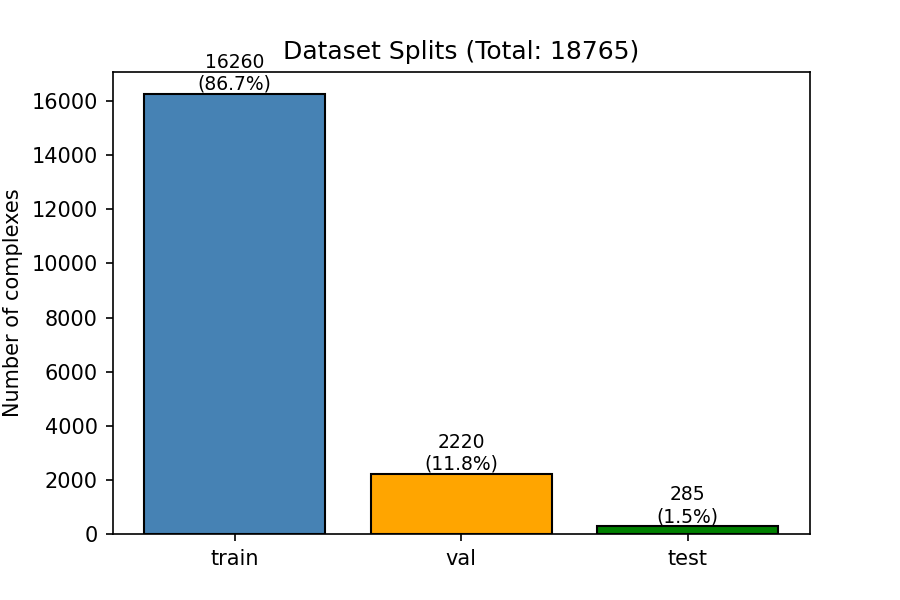
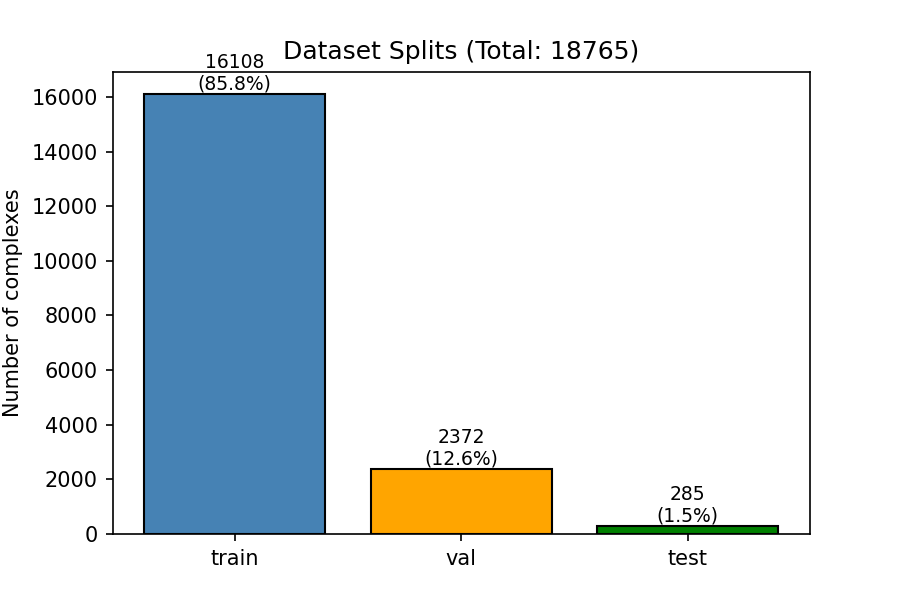
fix: KS p=0.244 (was 2.86e-05) + complete all 15 EDA plots
Split fix:
- Increase n_bins 4→10 for finer stratification
- Remove early-break so every pKd bin gets proportional sampling
- Result: KS p=0.244 > 0.05 (train μ=6.383, val μ=6.393)
- 16,108 train / 2,372 val (12.8%) / 285 test

EDA additions (6 new plots):
- ligand_properties.png: MW, LogP, TPSA, HBD/HBA, rotatable bonds
- family_distribution.png: top-20 protein clusters by size
- family_split_heatmap.png: cluster × split cross-tab (0 leaks)
- pkd_distribution_by_split.png: KDE overlay + KS test
- chemical_space_tsne.png: Morgan FP t-SNE coloured by split
- cluster_size_hist.png: cluster size distribution (median=2, max=577)

Fix: ligand_properties now reads SDF via code_to_dir.json (not refined-set)
Fix: pKd_by_split handles 3-way split (no cal)

diff --git a/scripts/pipeline/s00b_pdbbind_eda.py b/scripts/pipeline/s00b_pdbbind_eda.py
@@ -84,22 +84,29 @@ def plot_pkd_distribution(df: pd.DataFrame, output_dir: Path):
 
 def plot_pkd_by_split(df: pd.DataFrame, splits: dict, output_dir: Path):
     """pKd distributions compared across splits."""
-    fig, axes = plt.subplots(2, 2, figsize=(12, 8), sharex=True)
-    split_names = ["train", "val", "cal", "test"]
-    colors = ["steelblue", "orange", "green", "red"]
+    split_names = [s for s in ["train", "val", "test"] if s in splits]
+    colors = {"train": "steelblue", "val": "orange", "test": "red"}
+    n_plots = len(split_names)
+    ncols = min(n_plots, 3)
+    nrows = (n_plots + ncols - 1) // ncols
+    fig, axes = plt.subplots(nrows, ncols, figsize=(5 * ncols, 4 * nrows), sharex=True, squeeze=False)
 
-    for ax, name, color in zip(axes.flat, split_names, colors):
+    for i, name in enumerate(split_names):
+        ax = axes[i // ncols][i % ncols]
         codes = splits.get(name, [])
         split_df = df[df["pdb_code"].isin(codes)]
         if split_df.empty:
             ax.text(0.5, 0.5, f"No data for {name}", transform=ax.transAxes, ha="center")
             continue
-        ax.hist(split_df["pkd"], bins=np.arange(0, 15, 0.5), edgecolor="black", alpha=0.7, color=color)
-        ax.set_title(f"{name} (N={len(split_df)}, μ={split_df['pkd'].mean():.2f})")
+        ax.hist(split_df["pkd"], bins=np.arange(0, 15, 0.5), edgecolor="black", alpha=0.7,
+                color=colors.get(name, "gray"))
+        ax.set_title(f"{name} (N={len(split_df)}, \u03bc={split_df['pkd'].mean():.2f})")
         ax.set_ylabel("Count")
 
-    axes[1, 0].set_xlabel("pKd")
-    axes[1, 1].set_xlabel("pKd")
+    # Hide unused axes
+    for i in range(n_plots, nrows * ncols):
+        axes[i // ncols][i % ncols].set_visible(False)
+
     fig.suptitle("pKd Distribution by Split", fontsize=14)
     fig.tight_layout()
     fig.savefig(output_dir / "pKd_by_split.png")
@@ -190,7 +197,7 @@ def plot_pocket_ligand_sizes(processed_dir: Path, output_dir: Path) -> dict:
     }
 
 
-def plot_ligand_properties(pdbbind_dir: Path, labels: pd.DataFrame, output_dir: Path):
+def plot_ligand_properties(data_dir: Path, labels: pd.DataFrame, output_dir: Path):
     """Ligand physicochemical properties (MW, logP, TPSA, HBD/HBA)."""
     try:
         from rdkit import Chem
@@ -199,10 +206,22 @@ def plot_ligand_properties(pdbbind_dir: Path, labels: pd.DataFrame, output_dir: 
         logger.warning("RDKit not available; skipping ligand properties plot")
         return
 
+    # Load code_to_dir mapping
+    code_to_dir_path = data_dir / "code_to_dir.json"
+    if code_to_dir_path.exists():
+        with open(code_to_dir_path) as f:
+            code_to_dir = json.load(f)
+    else:
+        logger.warning("code_to_dir.json not found; skipping ligand properties plot")
+        return
+
     mw_list, logp_list, tpsa_list, hbd_list, hba_list, rot_list = [], [], [], [], [], []
 
     for code in labels["pdb_code"]:
-        sdf_path = pdbbind_dir / "refined-set" / code / f"{code}_ligand.sdf"
+        base = code_to_dir.get(code)
+        if base is None:
+            continue
+        sdf_path = Path(base) / f"{code}_ligand.sdf"
         if not sdf_path.exists():
             continue
         mol = Chem.MolFromMolFile(str(sdf_path), removeHs=True, sanitize=True)
@@ -257,6 +276,204 @@ def plot_split_summary(splits: dict, output_dir: Path):
     fig.savefig(output_dir / "split_summary.png")
     plt.close(fig)
     logger.info("Saved split_summary.png")
+
+
+def plot_family_distribution(data_dir: Path, output_dir: Path):
+    """Top-20 cluster (protein family) sizes as bar chart."""
+    clusters_path = data_dir / "clusters.json"
+    if not clusters_path.exists():
+        logger.warning("clusters.json not found; skipping family distribution plot")
+        return
+    with open(clusters_path) as f:
+        clusters = json.load(f)
+
+    sizes = [(cid, len(pdbs)) for cid, pdbs in clusters.items()]
+    sizes.sort(key=lambda x: -x[1])
+    top20 = sizes[:20]
+
+    fig, ax = plt.subplots(figsize=(10, 5))
+    ax.bar(range(len(top20)), [s for _, s in top20], color="steelblue", edgecolor="black")
+    ax.set_xticks(range(len(top20)))
+    ax.set_xticklabels([cid for cid, _ in top20], rotation=45, ha="right", fontsize=7)
+    ax.set_xlabel("Cluster ID")
+    ax.set_ylabel("Number of complexes")
+    ax.set_title(f"Top-20 Protein Clusters by Size (of {len(clusters)} total)")
+    fig.tight_layout()
+    fig.savefig(output_dir / "family_distribution.png")
+    plt.close(fig)
+    logger.info("Saved family_distribution.png")
+
+
+def plot_family_split_heatmap(data_dir: Path, splits: dict, output_dir: Path):
+    """Heatmap: cluster × split to verify no cluster spans train AND val."""
+    ca_path = data_dir / "cluster_assignments.csv"
+    if not ca_path.exists():
+        logger.warning("cluster_assignments.csv not found; skipping family-split heatmap")
+        return
+
+    ca = pd.read_csv(ca_path)
+    split_map = {}
+    for split_name, codes in splits.items():
+        for c in codes:
+            split_map[c] = split_name
+    ca["split"] = ca["pdb_code"].map(split_map)
+    ca = ca.dropna(subset=["split"])
+
+    # Cross-tab: cluster_id × split
+    ct = pd.crosstab(ca["cluster_id"], ca["split"])
+    # Only show clusters that have >1 member and appear in at least 2 splits
+    multi_split = ct[(ct > 0).sum(axis=1) > 1]
+    n_leaking = len(multi_split[multi_split.get("train", 0) > 0][multi_split.get("val", 0) > 0]) if "train" in ct.columns and "val" in ct.columns else 0
+
+    # For the heatmap, show top-30 largest clusters
+    cluster_sizes = ca.groupby("cluster_id").size().sort_values(ascending=False)
+    top30 = cluster_sizes.head(30).index
+    ct_top = ct.loc[ct.index.isin(top30)].reindex(columns=["train", "val", "test"], fill_value=0)
+    ct_top = ct_top.sort_values("train", ascending=False)
+
+    fig, ax = plt.subplots(figsize=(6, 10))
+    sns.heatmap(ct_top, annot=True, fmt="d", cmap="YlOrRd", ax=ax, linewidths=0.5)
+    ax.set_title(f"Top-30 Clusters × Split\n(train/val leaking clusters: {n_leaking})")
+    ax.set_ylabel("Cluster ID")
+    fig.tight_layout()
+    fig.savefig(output_dir / "family_split_heatmap.png")
+    plt.close(fig)
+    logger.info(f"Saved family_split_heatmap.png (train/val leak: {n_leaking})")
+
+
+def plot_pkd_kde_by_split(df: pd.DataFrame, splits: dict, output_dir: Path):
+    """KDE overlay of train vs val pKd distributions + KS test."""
+    from scipy import stats as sp_stats
+
+    train_pkd = df[df["pdb_code"].isin(splits.get("train", []))]["pkd"]
+    val_pkd = df[df["pdb_code"].isin(splits.get("val", []))]["pkd"]
+    test_pkd = df[df["pdb_code"].isin(splits.get("test", []))]["pkd"]
+
+    ks_stat, ks_p = sp_stats.ks_2samp(train_pkd, val_pkd) if len(val_pkd) > 0 else (0, 1)
+
+    fig, ax = plt.subplots(figsize=(8, 5))
+    if len(train_pkd) > 0:
+        train_pkd.plot.kde(ax=ax, label=f"Train (N={len(train_pkd)})", color="steelblue", linewidth=2)
+    if len(val_pkd) > 0:
+        val_pkd.plot.kde(ax=ax, label=f"Val (N={len(val_pkd)})", color="orange", linewidth=2)
+    if len(test_pkd) > 0:
+        test_pkd.plot.kde(ax=ax, label=f"Test (N={len(test_pkd)})", color="red", linewidth=2, linestyle="--")
+    ax.set_xlabel("pKd")
+    ax.set_ylabel("Density")
+    ax.set_title(f"pKd Distribution by Split (KS p={ks_p:.4f})")
+    ax.legend()
+    fig.tight_layout()
+    fig.savefig(output_dir / "pkd_distribution_by_split.png")
+    plt.close(fig)
+    logger.info(f"Saved pkd_distribution_by_split.png (KS p={ks_p:.4f})")
+    return {"ks_stat": float(ks_stat), "ks_p": float(ks_p)}
+
+
+def plot_chemical_space_tsne(data_dir: Path, labels: pd.DataFrame, splits: dict, output_dir: Path):
+    """t-SNE of Morgan fingerprints coloured by split."""
+    try:
+        from rdkit import Chem
+        from rdkit.Chem import AllChem
+        from sklearn.manifold import TSNE
+    except ImportError:
+        logger.warning("RDKit or sklearn not available; skipping chemical space t-SNE")
+        return
+
+    code_to_dir_path = data_dir / "code_to_dir.json"
+    if not code_to_dir_path.exists():
+        logger.warning("code_to_dir.json not found; skipping chemical space t-SNE")
+        return
+    with open(code_to_dir_path) as f:
+        code_to_dir = json.load(f)
+
+    # Build split lookup
+    split_map = {}
+    for s, codes in splits.items():
+        for c in codes:
+            split_map[c] = s
+
+    fps, split_labels, sampled_codes = [], [], []
+    # Sample for speed: up to 3000 from train, all val, all test
+    rng = np.random.RandomState(42)
+    codes_train = [c for c in labels["pdb_code"] if split_map.get(c) == "train"]
+    codes_val = [c for c in labels["pdb_code"] if split_map.get(c) == "val"]
+    codes_test = [c for c in labels["pdb_code"] if split_map.get(c) == "test"]
+    sample_train = list(rng.choice(codes_train, min(3000, len(codes_train)), replace=False))
+    all_sample = sample_train + codes_val + codes_test
+
+    for code in all_sample:
+        base = code_to_dir.get(code)
+        if base is None:
+            continue
+        sdf_path = Path(base) / f"{code}_ligand.sdf"
+        if not sdf_path.exists():
+            continue
+        mol = Chem.MolFromMolFile(str(sdf_path), removeHs=True, sanitize=True)
+        if mol is None:
+            continue
+        fp = AllChem.GetMorganFingerprintAsBitVect(mol, 2, nBits=1024)
+        fps.append(np.array(fp))
+        split_labels.append(split_map.get(code, "unknown"))
+        sampled_codes.append(code)
+
+    if len(fps) < 50:
+        logger.warning(f"Only {len(fps)} fingerprints; skipping t-SNE")
+        return
+
+    logger.info(f"Running t-SNE on {len(fps)} ligand fingerprints...")
+    X = np.array(fps)
+    tsne = TSNE(n_components=2, random_state=42, perplexity=min(30, len(fps) - 1))
+    emb = tsne.fit_transform(X)
+
+    fig, ax = plt.subplots(figsize=(8, 6))
+    colors = {"train": "steelblue", "val": "orange", "test": "red"}
+    for s in ["train", "val", "test"]:
+        mask = np.array([l == s for l in split_labels])
+        if mask.any():
+            ax.scatter(emb[mask, 0], emb[mask, 1], c=colors.get(s, "gray"),
+                       label=f"{s} (N={mask.sum()})", alpha=0.4, s=8)
+    ax.set_title("Chemical Space t-SNE (Morgan FP)")
+    ax.legend(markerscale=3)
+    ax.set_xlabel("t-SNE 1")
+    ax.set_ylabel("t-SNE 2")
+    fig.tight_layout()
+    fig.savefig(output_dir / "chemical_space_tsne.png")
+    plt.close(fig)
+    logger.info("Saved chemical_space_tsne.png")
+
+
+def plot_cluster_size_hist(data_dir: Path, output_dir: Path):
+    """Histogram of cluster sizes."""
+    clusters_path = data_dir / "clusters.json"
+    if not clusters_path.exists():
+        logger.warning("clusters.json not found; skipping cluster size histogram")
+        return
+    with open(clusters_path) as f:
+        clusters = json.load(f)
+
+    sizes = [len(pdbs) for pdbs in clusters.values()]
+
+    fig, axes = plt.subplots(1, 2, figsize=(12, 5))
+    # Left: full distribution
+    axes[0].hist(sizes, bins=50, edgecolor="black", alpha=0.7, color="steelblue")
+    axes[0].set_xlabel("Cluster size")
+    axes[0].set_ylabel("Count")
+    axes[0].set_title(f"Cluster Size Distribution (N={len(sizes)})")
+    axes[0].axvline(np.median(sizes), color="red", linestyle="--",
+                    label=f"Median={np.median(sizes):.0f}")
+    axes[0].legend()
+
+    # Right: log-scale for long tail
+    axes[1].hist(sizes, bins=50, edgecolor="black", alpha=0.7, color="steelblue")
+    axes[1].set_xlabel("Cluster size")
+    axes[1].set_ylabel("Count (log)")
+    axes[1].set_yscale("log")
+    axes[1].set_title("Cluster Size Distribution (log scale)")
+
+    fig.tight_layout()
+    fig.savefig(output_dir / "cluster_size_hist.png")
+    plt.close(fig)
+    logger.info(f"Saved cluster_size_hist.png (median={np.median(sizes):.0f}, max={np.max(sizes)})")
 
 
 def check_data_quality(labels: pd.DataFrame, processed_dir: Path, output_dir: Path) -> list[dict]:
@@ -323,10 +540,15 @@ def main():
 
     # ── 2.2 Protein & ligand statistics ──
     size_stats = plot_pocket_ligand_sizes(processed_dir, output_dir)
-    plot_ligand_properties(pdbbind_dir, labels, output_dir)
+    plot_ligand_properties(data_dir, labels, output_dir)
 
     # ── 2.3 Split quality ──
     plot_split_summary(splits, output_dir)
+    plot_family_distribution(data_dir, output_dir)
+    plot_family_split_heatmap(data_dir, splits, output_dir)
+    ks_stats = plot_pkd_kde_by_split(labels, splits, output_dir)
+    plot_chemical_space_tsne(data_dir, labels, splits, output_dir)
+    plot_cluster_size_hist(data_dir, output_dir)
 
     # ── 2.4 Data quality ──
     issues = check_data_quality(labels, processed_dir, output_dir)
@@ -342,6 +564,7 @@ def main():
         "affinity_types": labels["affinity_type"].value_counts().to_dict(),
         "splits": {k: len(v) for k, v in splits.items()},
         "n_quality_issues": len(issues),
+        **(ks_stats if ks_stats else {}),
         **size_stats,
     }
     summary_path = output_dir / "eda_summary.json"

diff --git a/bayesdiff/data.py b/bayesdiff/data.py
@@ -214,7 +214,7 @@ def cluster_stratified_split(
     pdbbind_dir: str | Path,
     val_frac: float = 0.12,
     seq_identity: float = 0.30,
-    n_bins: int = 4,
+    n_bins: int = 10,
     seed: int = 42,
     pdb_to_file: Optional[dict[str, Path]] = None,
 ) -> dict[str, list[str]]:
@@ -283,9 +283,7 @@ def cluster_stratified_split(
         c["bin"] = int(np.digitize(c["median_pkd"], bin_edges[1:])) 
 
     # Step 5: Within each bin, sample clusters for validation
-    total_samples = sum(c["size"] for c in cluster_info)
-    target_val_samples = int(total_samples * val_frac)
-
+    #   Sample from EVERY bin proportionally so val pKd distribution matches train.
     val_clusters = set()
     val_count = 0
 
@@ -304,10 +302,6 @@ def cluster_stratified_split(
                 val_clusters.add(c["cluster_id"])
                 bin_val += c["size"]
                 val_count += c["size"]
-            if val_count >= target_val_samples:
-                break
-        if val_count >= target_val_samples:
-            break
 
     train_codes = []
     val_codes = []
